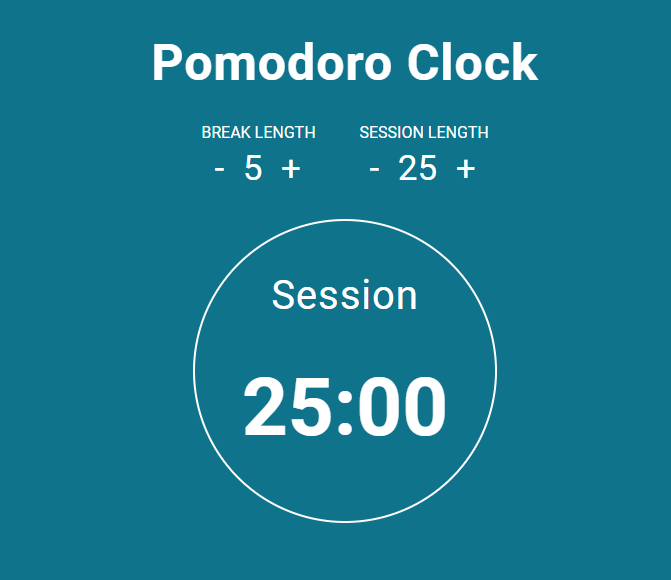
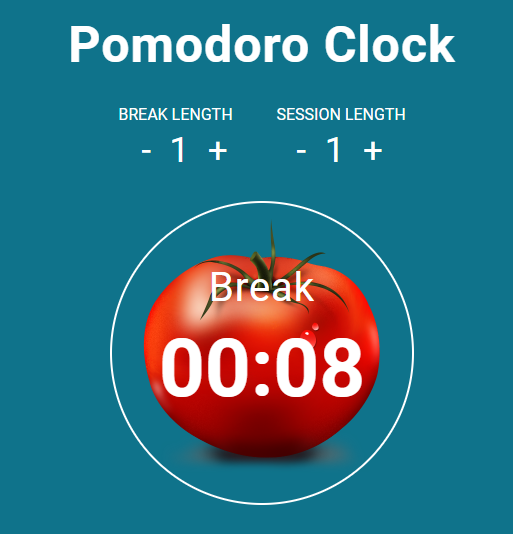
Final2

diff --git a/css/styles.css b/css/styles.css
@@ -64,18 +64,35 @@ body {
   margin: 0 auto;
   border-radius: 50%;
   cursor: pointer;
+  position: relative;
 }
 
 #name {
   letter-spacing: 1px;
   font-weight: 400;
   font-size: 40px;
-  margin-top: 50px;
+  top: 28%;
+  left: 50%;
+  margin: 0;
+  position: absolute;
+  -webkit-transform: translate(-50%, -50%);
+          transform: translate(-50%, -50%);
 }
 
 #timer {
+  position: absolute;
   font-size: 80px;
-  margin-top: 40px;
+  top: 55%;
+  left: 50%;
+  margin: 0;
+  position: absolute;
+  -webkit-transform: translate(-50%, -50%);
+          transform: translate(-50%, -50%);
+}
+
+#pomo-img {
+  position: relative;
+  top: 15px;
 }
 
 @media (max-width: 480px) {

diff --git a/css/styles.scss b/css/styles.scss
@@ -67,18 +67,33 @@ body {
   margin: 0 auto;
   border-radius: 50%;
   cursor: pointer;
+  position: relative;
 }
 
 #name {
   letter-spacing: 1px;
   font-weight: 400;
   font-size: 40px;
-  margin-top: 50px;
+  top: 28%;
+  left: 50%;
+  margin: 0;
+  position: absolute;
+  transform: translate(-50%, -50%);
 }
 
 #timer {
+  position: absolute;
   font-size: 80px;
-  margin-top: 40px;
+  top: 55%;
+  left: 50%;
+  margin: 0;
+  position: absolute;
+  transform: translate(-50%, -50%);
+}
+
+#pomo-img {
+  position: relative;
+  top: 15px;
 }
 
 @media (max-width: 480px) {
@@ -86,3 +101,4 @@ body {
     font-size: 40px;
   }
 }
+

diff --git a/index.html b/index.html
@@ -28,10 +28,16 @@
  			</div>
  		</div>
  		<div id="circle">
+			<img id="pomo-img" src="img/pompdoro-1.0.png" alt="">
  			<h2 id="name">Session</h2>
  			<h2 id="timer"></h2>
  		</div>
+
+
 	</div>
+
+
+
 
 	<audio id="beep" src="https://goo.gl/65cBl1" preload="auto"></audio>
 </body>
